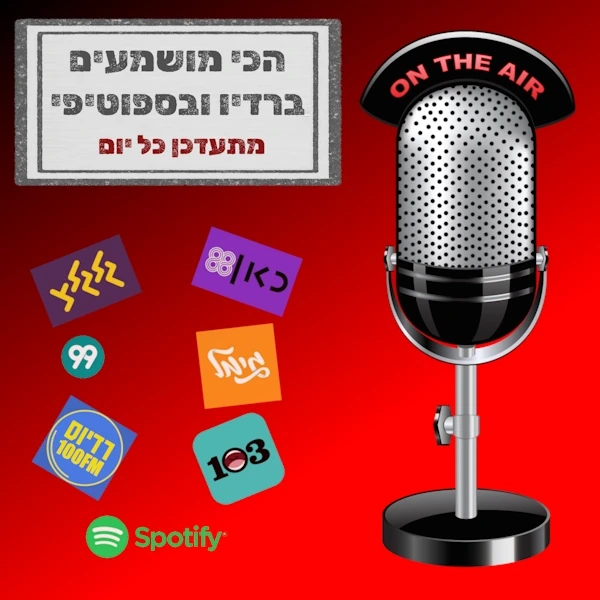
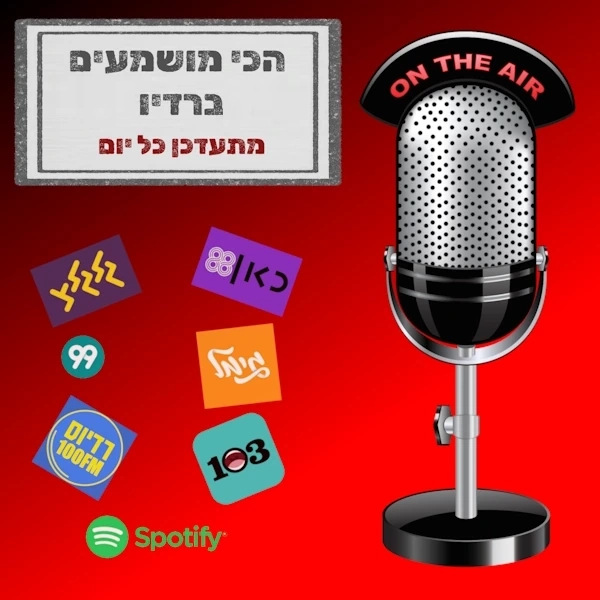
radio PL

Changed region(s): [[0.06, 0.15, 0.51, 0.21]]

diff --git a/playlists.html b/playlists.html
@@ -104,10 +104,16 @@
         description: "שקט ורגוע",
       },
       {
-        name: "הכי מושמעים ברדיו",
+        name: "ישראלי/לועזי - הכי מושמעים ברדיו",
         url: "https://open.spotify.com/playlist/7EMf0tuEIQHBPj3ol56LyV",
         image: "Media/playlist/Radio All Playlist.webp",
-        description: "הכי מושמעים ברדיו",
+        description: "הכי מושמעים ברדיו | ישראלי/לועזי",
+      },
+      {
+        name: "ישראלי - הכי מושמעים ברדיו",
+        url: "https://open.spotify.com/playlist/5T7r6CHJZd5ifrkjbhKHJR",
+        image: "Media/playlist/Radio IL Playlist.webp",
+        description: "הכי מושמעים ברדיו | ישראלי",
       },
       {
         name: "בלוז",
